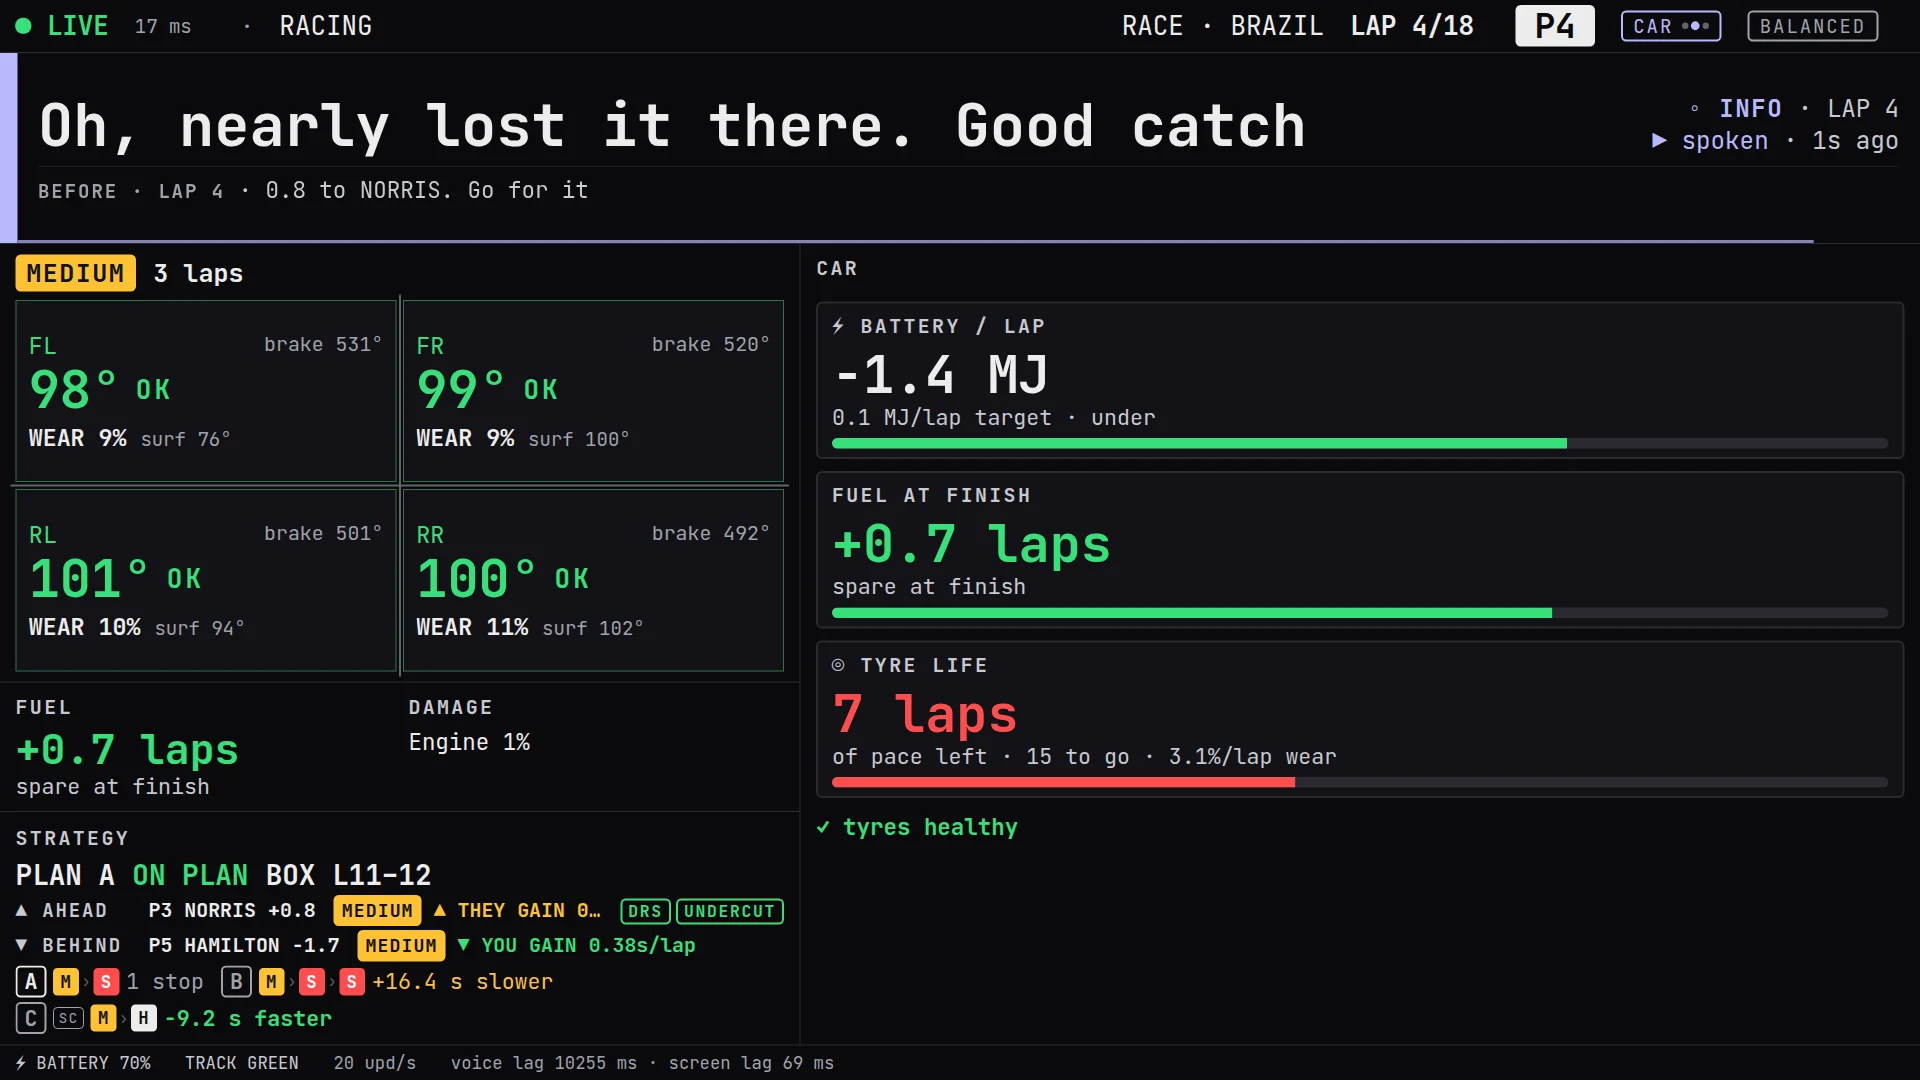
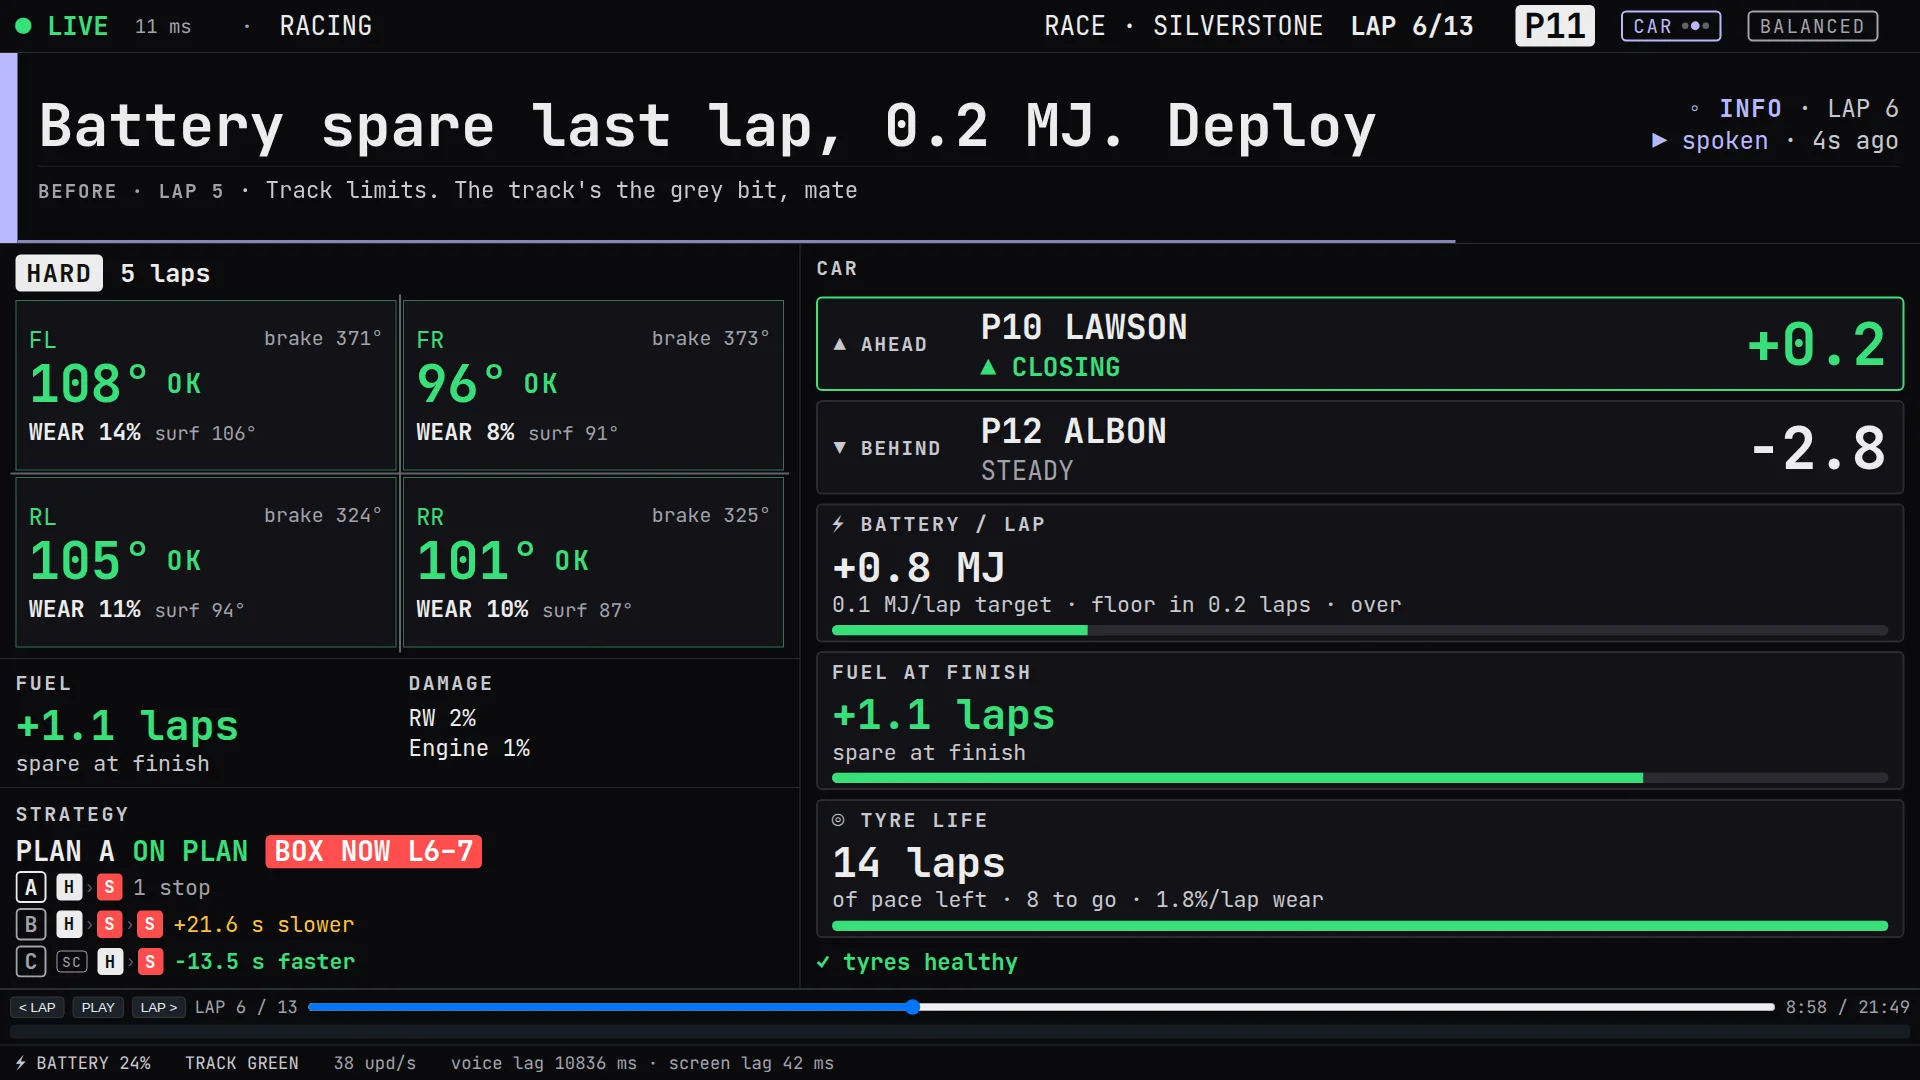
Rival blocks: say leading or nobody close; refresh Car and Track gallery shots

diff --git a/web/app.js b/web/app.js
@@ -331,7 +331,7 @@
     renderQRail(p.quali, p);
     renderCarPage(p, p.strategy);
     renderTrackPage(p.track_info);
-    renderRivals(p.strategy);
+    renderRivals(p.strategy, p.position);
 
     var comp = COMPOUNDS[p.tyre_visual] || (p.tyre_visual ? "C" + p.tyre_visual : "--");
     var compEl = el("compound");
@@ -465,12 +465,12 @@
 
   // Car and Track pages: one block per car. Colours follow the driver: green
   // when the gap moves his way, red when it moves against him.
-  function rivalBlock(n, r, side) {
+  function rivalBlock(n, r, side, pos) {
     n.innerHTML = "";
     n.className = "rv";
     n.appendChild(span(side === "ahead" ? "▲ AHEAD" : "▼ BEHIND", "rv-side"));
     if (!r) {
-      n.appendChild(span(side === "ahead" ? "no car ahead" : "no car behind", "rv-none"));
+      n.appendChild(span(side === "ahead" && pos === 1 ? "leading" : "nobody close", "rv-none"));
       return;
     }
     var nogap = r.gap_s === null || r.gap_s === undefined;
@@ -488,14 +488,14 @@
     }
     n.appendChild(span(gapText(gap), "rv-gap " + gcls));
   }
-  function renderRivals(s) {
+  function renderRivals(s, pos) {
     ["cp-rivals", "tp-rivals"].forEach(function (id) {
       var box = el(id);
       if (!box) return;
       box.hidden = !s;
       if (!s) return;
-      rivalBlock(box.children[0], s.ahead, "ahead");
-      rivalBlock(box.children[1], s.behind, "behind");
+      rivalBlock(box.children[0], s.ahead, "ahead", pos);
+      rivalBlock(box.children[1], s.behind, "behind", pos);
     });
   }
 

diff --git a/web/index.html b/web/index.html
@@ -9,7 +9,7 @@
   <meta name="apple-mobile-web-app-capable" content="yes">
   <meta name="apple-mobile-web-app-status-bar-style" content="black-translucent">
   <title>pitwall</title>
-  <link rel="stylesheet" href="/static/style.css?v=14">
+  <link rel="stylesheet" href="/static/style.css?v=15">
 </head>
 <body class="dash connecting">
   <header class="status">
@@ -219,7 +219,7 @@
     <div class="drvmenu-head">RADIO PIT <span id="drvmenu-left" class="dim"></span></div>
     <ol id="drvmenu-list"></ol>
   </aside>
-  <script src="/static/app.js?v=14"></script>
-  <script src="/static/review.js?v=14"></script>
+  <script src="/static/app.js?v=15"></script>
+  <script src="/static/review.js?v=15"></script>
 </body>
 </html>
